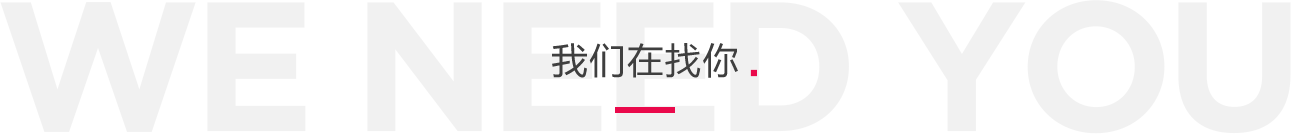
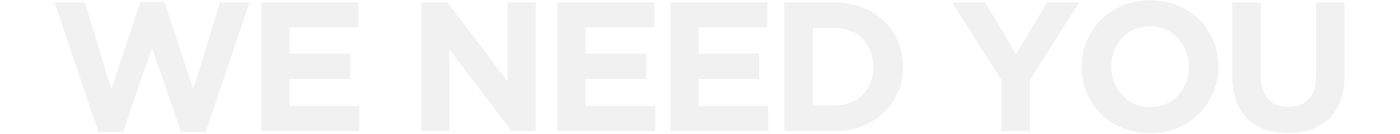
增加footer

Changed region(s): [[0.4028, 0.3284, 0.5887, 0.597], [0.4648, 0.7761, 0.5267, 0.8657]]

diff --git a/index.html b/index.html
@@ -72,30 +72,42 @@
 <!-- 招聘 start -->
 
 <div class="recruit">
+        <div class="recruit-title-bg .col-xs-12"><span>我们在找你</span></div>
     <div class="container">
-        <div class="recruit-title-bg"></div>
-        <div class="recruit-title">我们是一个文能赋诗写段子、武能风火做执行的靠谱团队。</br>
-              拥有比黑洞更深的脑洞，比黄金更真的责任心，比火箭更高效的执行力。</br>
-              更坐拥广州市钻石地段360度壮阔美景办公区和上市公司完善的薪酬福利。</br>
-              加入我们，将每个脑洞变成精彩现场。</div>
+        <div class="recruit-title">
+            我们是一个文能赋诗写段子、武能风火做执行的靠谱团队。</br>
+            拥有比黑洞更深的脑洞，比黄金更真的责任心，比火箭更高效的执行力。</br>
+            更坐拥广州市钻石地段360度壮阔美景办公区和上市公司完善的薪酬福利。</br>
+            加入我们，将每个脑洞变成精彩现场。
+        </div>
+        <div class="recruit-title-s">
+            我们是一个文能赋诗写段子、武能风火做执行的靠谱团队。
+            拥有比黑洞更深的脑洞，比黄金更真的责任心，比火箭更高效的执行力。
+            更坐拥广州市钻石地段360度壮阔美景办公区和上市公司完善的薪酬福利。</br></br>
+            加入我们，将每个脑洞变成精彩现场。
+        </div>
         <ul>
             <li>
                 <span class="recruit-type">资深文案</span>
                 <div class="recruit-introduce">部门：互联网事业二部 | 招聘人数：2人</div>
                 <div class="recruit-arrow"></div>
                 <div class="recruit-content">
-                    职位描述：</br>
-                    1、负责快消、3C等行业大客户的互联网整合传播服务。制定品牌数字整合营销策划推广全案；</br>
-                    2、负责为客户提供企业品牌整体策划、市场营销整体策划、网络整合营销推广活动等相关策划方案；</br>
-                    3、配合产品营销及渠道营销，负责新媒体营销、精准营销等互联网营销策划、执行及评估；</br>
-                    4、营销活动主题创作、热点事件创意与策划；</br></br>
+                    <div>职位描述：</div>
+                    <ol>
+                        <li>负责快消、3C等行业大客户的互联网整合传播服务。制定品牌数字整合营销策划推广全案；</li>
+                        <li>负责为客户提供企业品牌整体策划、市场营销整体策划、网络整合营销推广活动等相关策划方案；</li>
+                        <li>配合产品营销及渠道营销，负责新媒体营销、精准营销等互联网营销策划、执行及评估；</li>
+                        <li>营销活动主题创作、热点事件创意与策划；</li>
+                    </ol>
 
-                    任职资格：</br>
-                    1、大学本科及以上学历，所学专业不限；</br>
-                    2、具备营销公司全案策划经验，网络营销策划经验，熟悉各种方案的撰写；</br>
-                    3、了解互联网推广手段，对精准营销、搜索营销、社交媒体营销等有深刻的理解和认识；</br>
-                    4、清晰的逻辑思辨能力、良好的数据与竞争对手分析能力、具备高水平的创意能力，创意设计有自己的观点和建议能力；</br>
-                    5、公关/广告/传媒/互联网营销公司3年以上策划工作经验，具有家电、快消、3C行业服务经验者优先；</br>
+                    <div>任职资格：</div>
+                    <ol>
+                        <li>大学本科及以上学历，所学专业不限；</li>
+                        <li>具备营销公司全案策划经验，网络营销策划经验，熟悉各种方案的撰写；</li>
+                        <li>了解互联网推广手段，对精准营销、搜索营销、社交媒体营销等有深刻的理解和认识；</li>
+                        <li>清晰的逻辑思辨能力、良好的数据与竞争对手分析能力、具备高水平的创意能力，创意设计有自己的观点和建议能力；</li>
+                        <li>公关/广告/传媒/互联网营销公司3年以上策划工作经验，具有家电、快消、3C行业服务经验者优先；</li>
+                    </ol>
                 </div>
             </li>
             <li>
@@ -112,7 +124,15 @@
     </div>
 </div>
 
-<
+<div class="footer">
+    <div class="container">
+        <div class="footer-title">马上联系我们，聊聊你的传播计划</div>
+        <div class="footer-pflm">普方创意中心是</br>
+            深圳市普方立民科技股份有限公司</br>
+            旗下专业策划团队</div>
+    </div>
+    <!-- <img class="footer-bg" src="img/footer_bg.jpg"> -->
+</div>
 
 <!-- 招聘 end -->
 

diff --git a/css/main.css b/css/main.css
@@ -7,9 +7,6 @@ body {
   font-size: 14px;
   -webkit-font-smoothing: antialiased;
 }
-li {
-  list-style-type: none;
-}
 .navbar {
   height: 82px;
   margin-bottom: 0;
@@ -140,10 +137,40 @@ li {
   background-size: contain;
   background-position: center;
   background-repeat: no-repeat;
+  font-size: 24px;
+  text-align: center;
+  line-height: 80px;
+}
+.recruit-title-bg > span {
+  position: relative;
+}
+.recruit-title-bg > span:before {
+  content: "";
+  display: block;
+  width: 5px;
+  height: 5px;
+  background-color: #ea094b;
+  position: absolute;
+  right: -20px;
+  bottom: 3px;
+}
+.recruit-title-bg > span:after {
+  content: "";
+  display: block;
+  width: 40px;
+  height: 4px;
+  background-color: #ea094b;
+  position: absolute;
+  left: 50%;
+  bottom: -16px;
+  transform: translateX(-50%);
 }
 .recruit-title {
   text-align: center;
-  padding: 4px 0 40px;
+  padding: 0 0 40px;
+}
+.recruit-title-s {
+  display: none;
 }
 .recruit ul {
   width: 100%;
@@ -154,6 +181,7 @@ li {
   border-bottom: 0.1px #3f3f3f solid;
   padding: 20px 0;
   position: relative;
+  list-style-type: none;
 }
 .recruit ul > li:first-child {
   border-top: 1px #3f3f3f solid;
@@ -182,8 +210,26 @@ li {
   top: 30px;
   right: 10px;
 }
-.recruit-content {
+.recruit-content > div {
   padding-top: 18px;
+}
+.recruit-content > ol {
+  padding-left: 13px;
+}
+.footer {
+  /*width: 100%;
+  height: 520px;*/
+  background-size: cover;
+  background-image: url('../img/footer_bg.jpg');
+  padding: 40px 0;
+  color: #fff;
+}
+.footer-title {
+  font-size: 24px;
+  text-align: center;
+}
+.footer-pflm {
+  background-image: url('../img/footer_pflm_gray.jpg');
 }
 /*********
 *************** 招聘 end ***************
@@ -262,5 +308,42 @@ li {
     height: 36px;
     top: 20px;
     background-image: url('../img/recruit_arrow_left.png');
+  }
+  .recruit-title-bg {
+    width: 100%;
+    height: 150px;
+    background-image: url('../img/recruit_title_s1.png');
+    background-color: #000;
+    background-position: -27px center;
+    background-size: contain;
+    color: #fff;
+    font-size: 24px;
+    line-height: 150px;
+    position: relative;
+  }
+  .recruit-title-bg:before {
+    content: "";
+    display: block;
+    width: 3px;
+    height: 30px;
+    background-color: #ea094b;
+    position: absolute;
+    top: 135px;
+    /*transform: translateY(50%);*/
+    left: 35px;
+  }
+  .recruit-title-bg > span {
+    position: relative;
+  }
+  .recruit-title-bg > span:after {
+    display: none;
+  }
+  .recruit-title {
+    display: none;
+  }
+  .recruit-title-s {
+    display: block;
+    padding: 42px 20px 20px;
+    line-height: 25px;
   }
 }

diff --git a/css/main.less b/css/main.less
@@ -6,9 +6,6 @@ html, body {
   font-size: 14px;
   -webkit-font-smoothing: antialiased;
 }
-li {
-  list-style-type:none;
-}
 
 .navbar {
   height: 82px;
@@ -154,10 +151,40 @@ li {
   background-size: contain;
   background-position: center;
   background-repeat: no-repeat;
+  font-size: 24px;
+  text-align: center;
+  line-height: 80px;
+}
+.recruit-title-bg > span {
+  position: relative;
+}
+.recruit-title-bg > span:before {
+  content: "";
+  display: block;
+  width: 5px;
+  height: 5px;
+  background-color: #ea094b;
+  position: absolute;
+  right: -20px;
+  bottom: 3px;
+}
+.recruit-title-bg > span:after {
+  content: "";
+  display: block;
+  width: 40px;
+  height: 4px;
+  background-color: #ea094b;
+  position: absolute;
+  left: 50%;
+  bottom: -16px;
+  transform: translateX(-50%);
 }
 .recruit-title {
   text-align: center;
-  padding: 4px 0 40px;
+  padding: 0 0 40px;
+}
+.recruit-title-s {
+  display: none;
 }
 .recruit ul {
   width: 100%;
@@ -168,6 +195,7 @@ li {
   border-bottom: 0.1px #3f3f3f solid;
   padding: 20px 0;
   position: relative;
+  list-style-type:none;
 }
 .recruit ul > li:first-child {
   border-top: 1px #3f3f3f solid;
@@ -196,8 +224,26 @@ li {
   top: 30px;
   right: 10px;
 }
-.recruit-content {
+.recruit-content > div {
   padding-top: 18px; 
+}
+.recruit-content > ol {
+  padding-left: 13px;
+}
+.footer {
+  /*width: 100%;
+  height: 520px;*/
+  background-size: cover;
+  background-image: url('../img/footer_bg.jpg');
+  padding: 40px 0;
+  color: #fff;
+}
+.footer-title {
+  font-size: 24px;
+  text-align: center;
+}
+.footer-pflm {
+  background-image: url('../img/footer_pflm_gray.jpg');
 }
 
 /*********
@@ -285,5 +331,42 @@ li {
     height: 36px;
     top: 20px;
     background-image: url('../img/recruit_arrow_left.png');
+  }
+  .recruit-title-bg {
+    width: 100%;
+    height: 150px;
+    background-image: url('../img/recruit_title_s1.png');
+    background-color: #000;
+    background-position: -27px center;
+    background-size: contain;
+    color: #fff;
+    font-size: 24px;
+    line-height: 150px;
+    position: relative;
+  }
+  .recruit-title-bg:before {
+    content: "";
+    display: block;
+    width: 3px;
+    height: 30px;
+    background-color: #ea094b;
+    position: absolute;
+    top: 135px;
+    /*transform: translateY(50%);*/
+    left: 35px;
+  }
+  .recruit-title-bg > span {
+    position: relative;
+  }
+  .recruit-title-bg > span:after {
+    display: none;
+  }
+  .recruit-title {
+    display: none;
+  }
+  .recruit-title-s {
+    display: block;
+    padding: 42px 20px 20px;
+    line-height: 25px;
   }
 }
